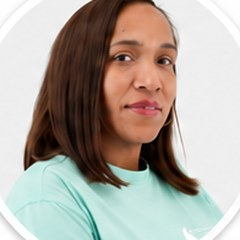
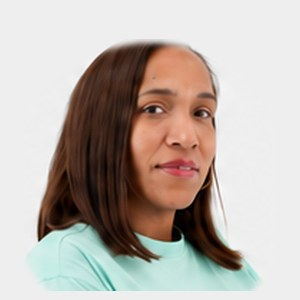
Zeitmitteilung: Porträts mit Platz über dem Kopf, Fotos etwas grösser
Claude-Session: https://claude.ai/code/session_01UYUrdhYGSg6xUp5EEkhjBW

diff --git a/index.html b/index.html
@@ -4376,8 +4376,8 @@ function teamBlockHtml(o){
   const m = teamMembersFor(o); if(!m.length) return '';
   const esc = v=>String(v).replace(/[&<>"]/g,c=>({'&':'&amp;','<':'&lt;','>':'&gt;','"':'&quot;'}[c]));
   const pic = p=> TEAM_PHOTOS.includes(p.key)
-    ? `<img src="${TEAM_PHOTO_BASE}${p.key}.jpg" width="44" height="44" alt="${esc(p.name)}" style="display:block;width:44px;height:44px;border-radius:50%;border:2px solid #ffffff">`
-    : `<div style="width:44px;height:44px;line-height:44px;border-radius:50%;border:2px solid #ffffff;background:#71B6C6;color:#ffffff;font-weight:bold;font-size:15px;text-align:center">${esc(p.name[0].toUpperCase())}</div>`;
+    ? `<img src="${TEAM_PHOTO_BASE}${p.key}.jpg" width="54" height="54" alt="${esc(p.name)}" style="display:block;width:54px;height:54px;border-radius:50%;border:2px solid #ffffff">`
+    : `<div style="width:54px;height:54px;line-height:54px;border-radius:50%;border:2px solid #ffffff;background:#71B6C6;color:#ffffff;font-weight:bold;font-size:17px;text-align:center">${esc(p.name[0].toUpperCase())}</div>`;
   const names = m.length>1 ? m.slice(0,-1).map(p=>p.name).join(', ') + ' und ' + m[m.length-1].name : m[0].name;
   return `
                 <tr><td style="padding:14px 0 0"><div style="border-top:1px solid #dde6e8;height:0;line-height:0;font-size:0">&nbsp;</div></td></tr>
